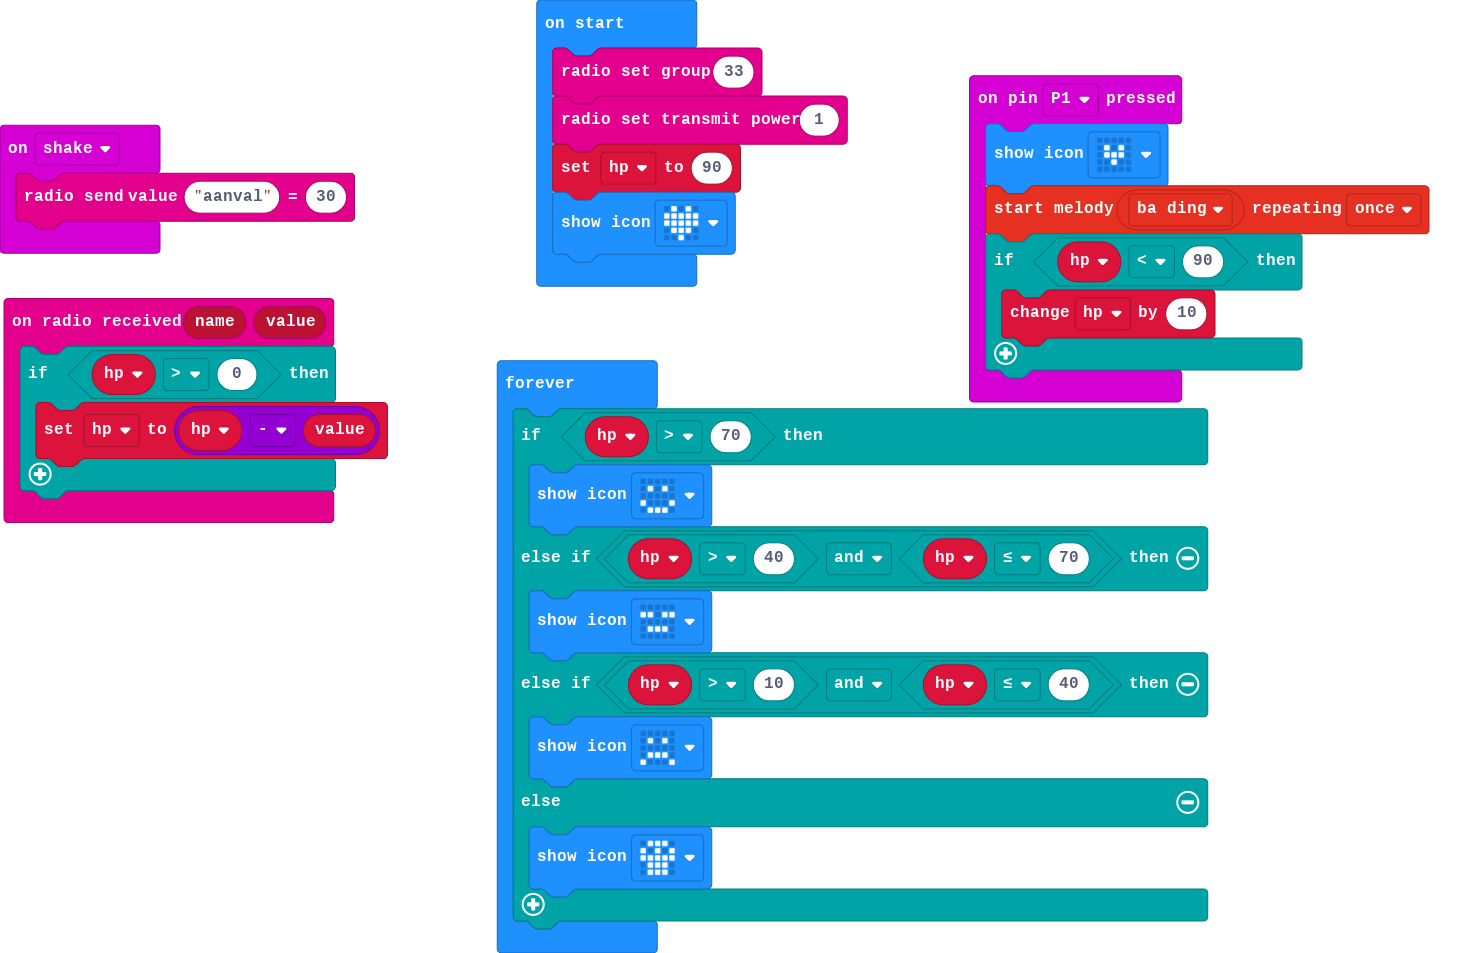
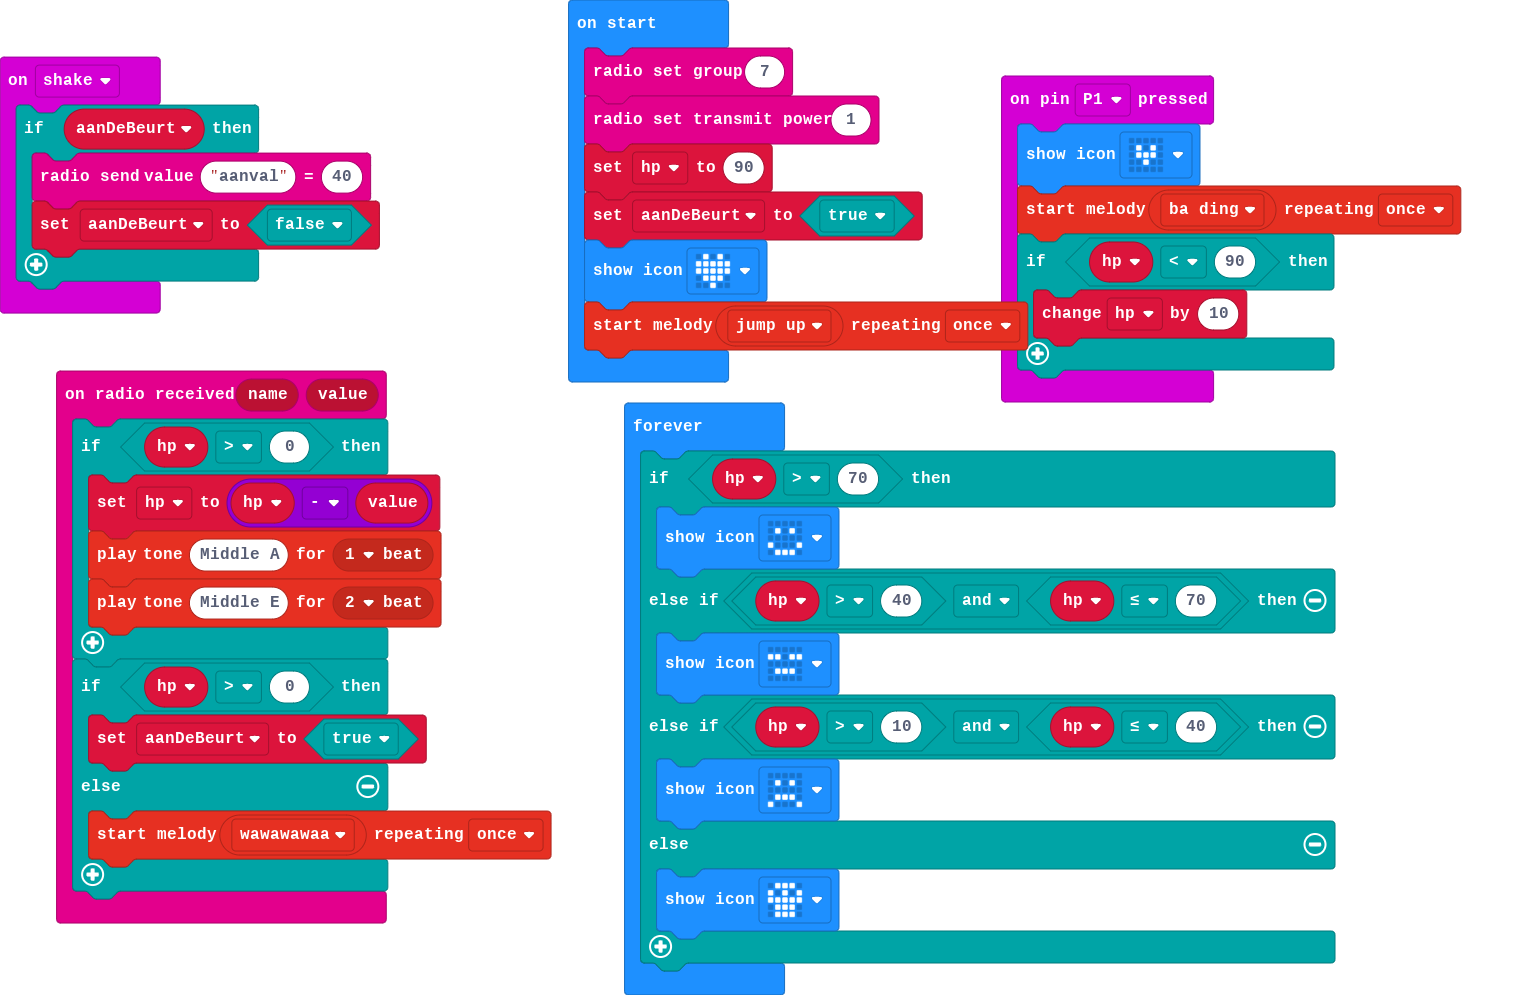
Update main.blocks, main.ts

diff --git a/main.ts b/main.ts
@@ -6,18 +6,31 @@ input.onPinPressed(TouchPin.P1, function () {
     }
 })
 input.onGesture(Gesture.Shake, function () {
-    radio.sendValue("aanval", 30)
+    if (aanDeBeurt) {
+        radio.sendValue("aanval", 40)
+        aanDeBeurt = false
+    }
 })
 radio.onReceivedValue(function (name, value) {
     if (hp > 0) {
         hp = hp - value
+        music.playTone(440, music.beat(BeatFraction.Whole))
+        music.playTone(330, music.beat(BeatFraction.Double))
+    }
+    if (hp > 0) {
+        aanDeBeurt = true
+    } else {
+        music.startMelody(music.builtInMelody(Melodies.Wawawawaa), MelodyOptions.Once)
     }
 })
+let aanDeBeurt = false
 let hp = 0
-radio.setGroup(33)
+radio.setGroup(7)
 radio.setTransmitPower(1)
 hp = 90
+aanDeBeurt = true
 basic.showIcon(IconNames.Heart)
+music.startMelody(music.builtInMelody(Melodies.JumpUp), MelodyOptions.Once)
 basic.forever(function () {
     if (hp > 70) {
         basic.showIcon(IconNames.Happy)
